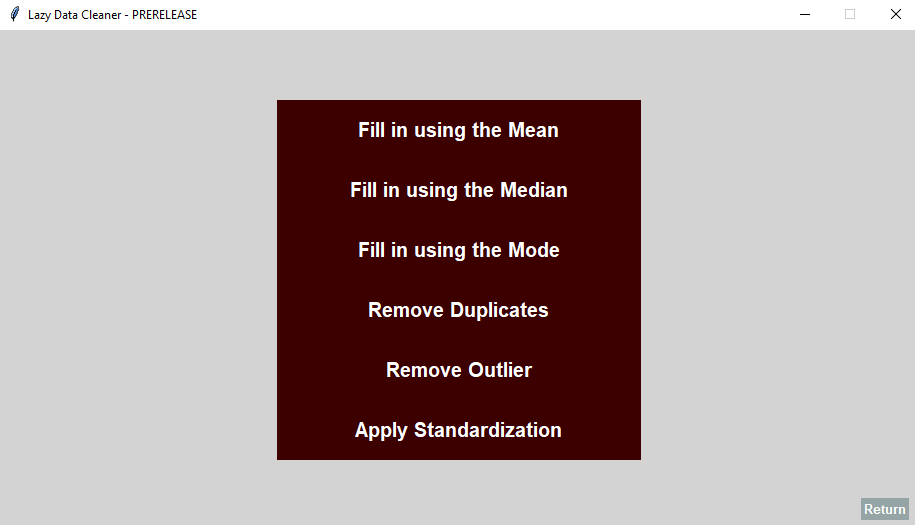
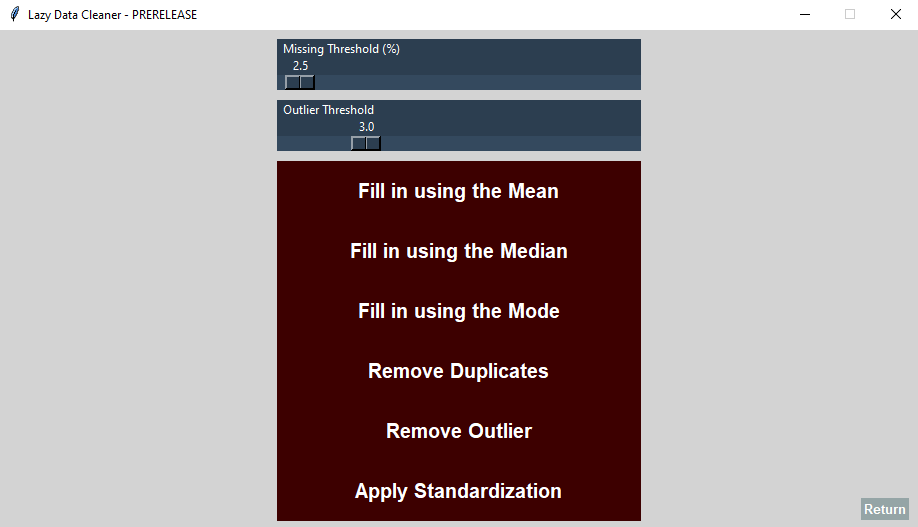
v0.4.5

diff --git a/UI/display.py b/UI/display.py
@@ -397,7 +397,7 @@ class LazyDataCleaner():
             to=100,
             orient="horizontal",
             resolution=0.1,
-            label="Missing Threshold",
+            label="Missing Threshold (%)",
             length=300,
             bg="#2c3e50",
             fg="white",
@@ -424,6 +424,9 @@ class LazyDataCleaner():
             bd=0
         )
         
+        self.threadhold_slider.set(self.missing_threshold)
+        self.outlier_threadhold_slider.set(self.outlier_threshold)
+
     # Clear Frame
     def clear_frame(self):
 
